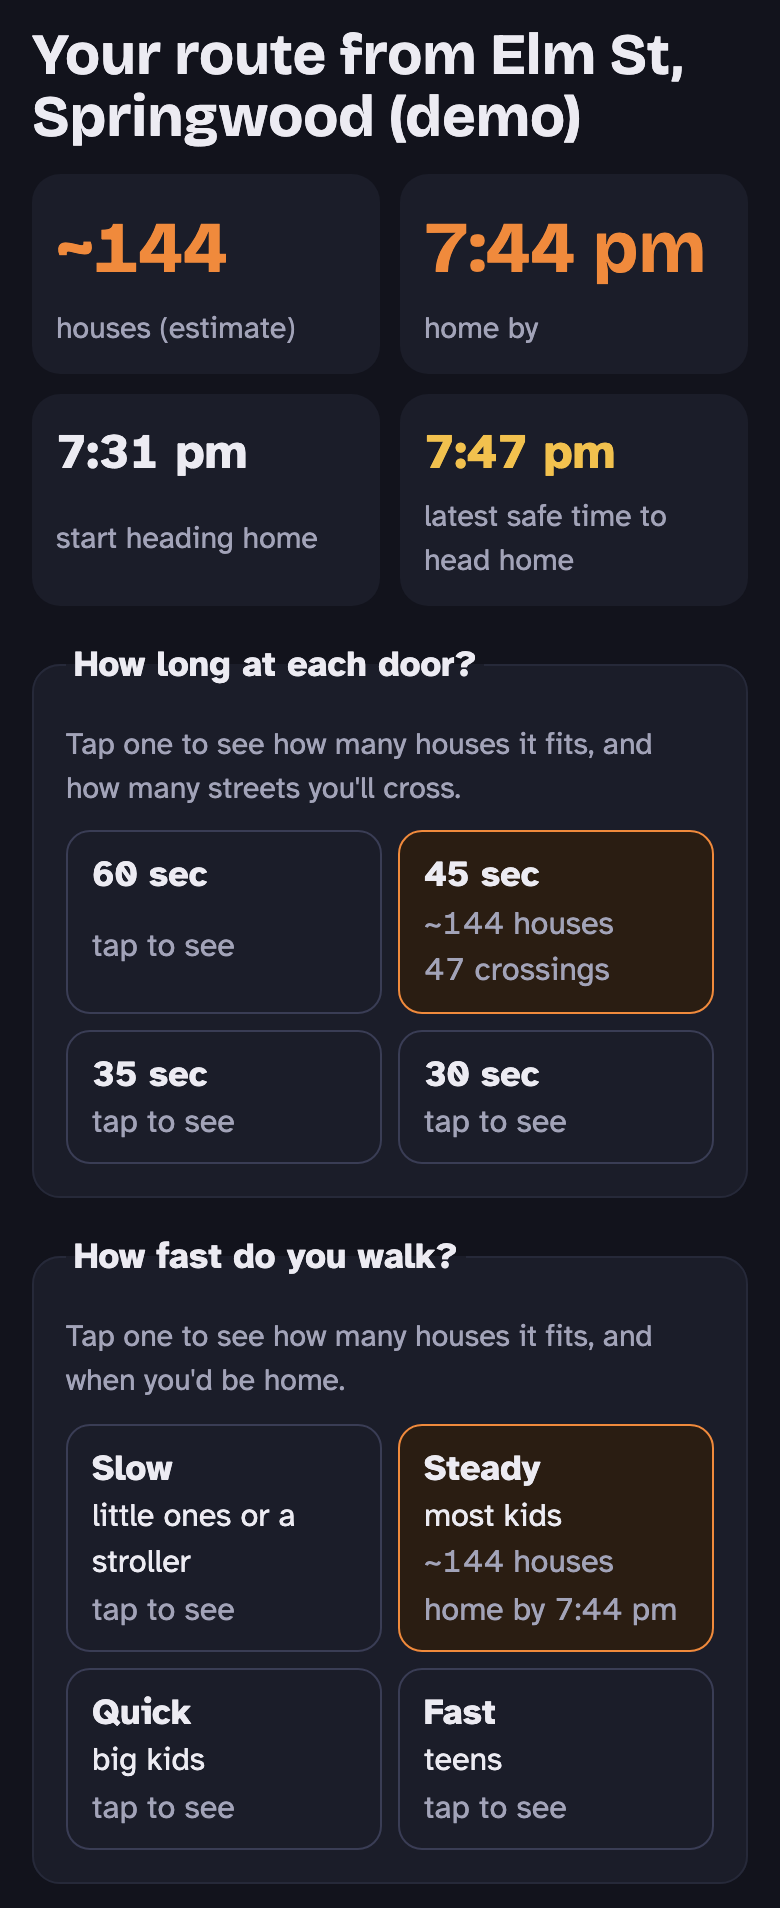
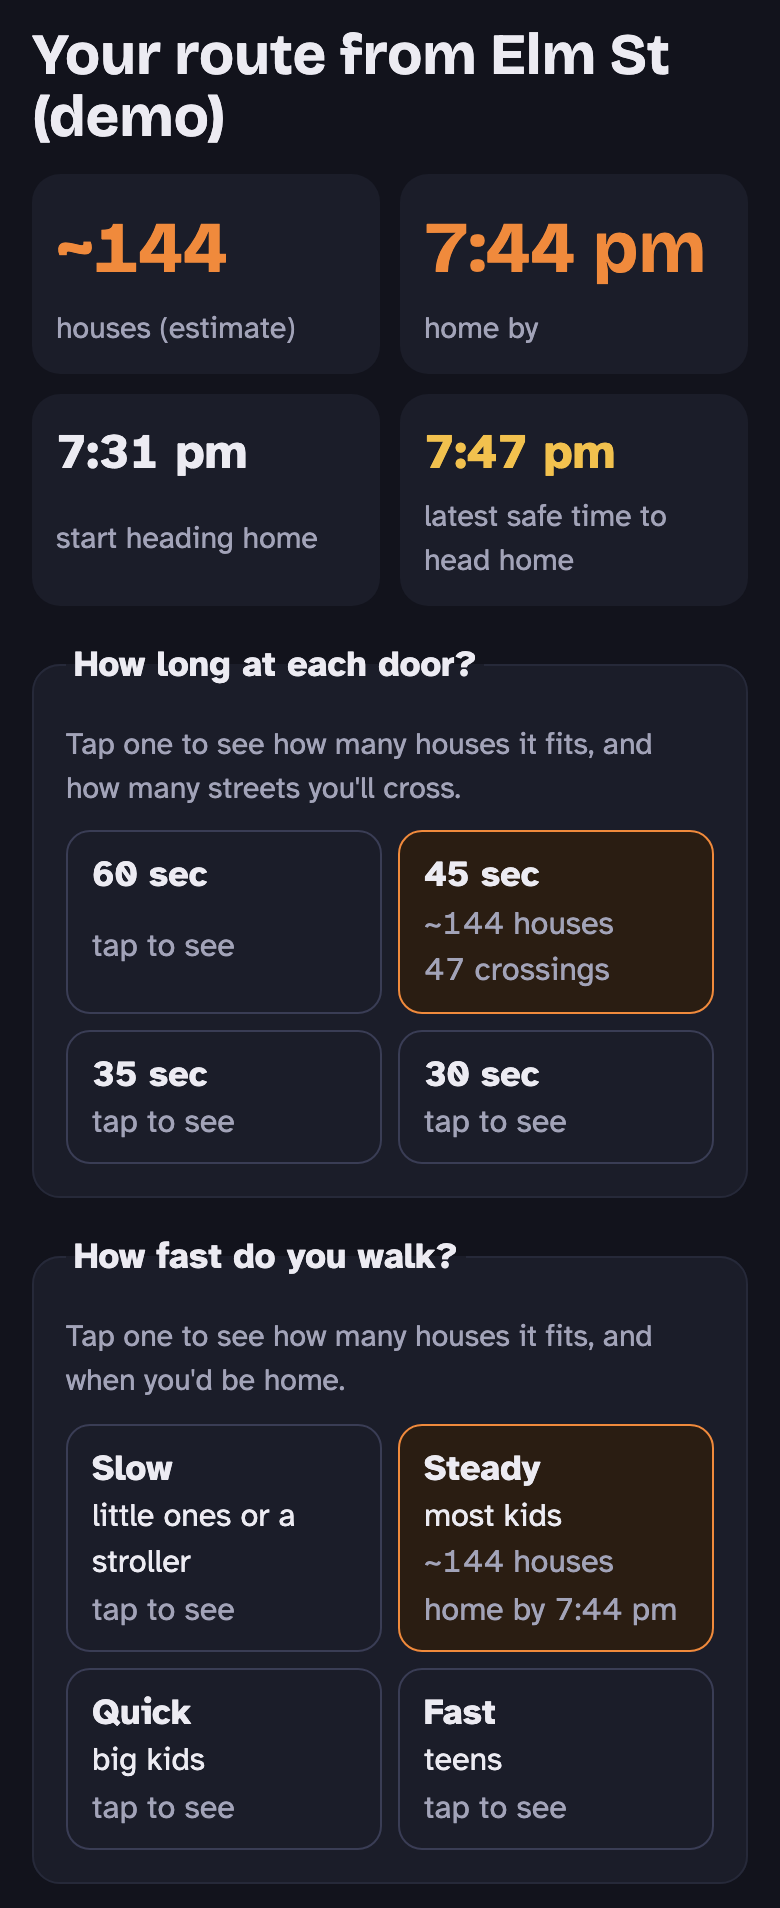
Route title shows the street only, never a town or neighborhood
The title could add a second part from the geocoder, an area name locals
don't use. People know what town they're in, so it's gone:

- "Your route from Elm St": the street only, still shortened (Street -> St,
  Avenue -> Ave). No street from the geocoder: just "Your route". The demo
  reads "Your route from Elm St (demo)".
- The geocoders no longer keep a town at all. The town was only ever used
  for the title, so less is stored: a found address is now just the point
  and the street.
- Older data still loads with street-only titles: cached addresses that kept
  a town (or an old "street, area" label), and planned routes and Night Mode
  plans whose saved title named a town. They're trimmed to the street when
  read.

Tests use made-up Springwood-style geocoder answers, including ones with no
street name. Retook 2-results-door-and-pace.png and 4-night-mode.png in demo
mode (390 px at 2x, every request leaving localhost blocked; none were made).

Changed region(s): [[0.0308, 0.0309, 0.7385, 0.0928]]

diff --git a/src/screens/saved.test.ts b/src/screens/saved.test.ts
@@ -44,8 +44,18 @@ describe('settings saved by an older version', () => {
       [`haulween.geo.${key}`]: { lat: 41.8, lng: -82.1, label: 'Elm Street, Lakeview', source: 'Nominatim' },
     }));
     const place = await geo.search(PLACEHOLDER_ADDRESS);
-    expect(place).toEqual({ lat: 41.8, lng: -82.1, road: 'Elm Street', town: '', source: 'Nominatim' });
-    // The old label's town might be a small local area name ("Lakeview"), so it isn't used.
+    expect(place).toEqual({ lat: 41.8, lng: -82.1, road: 'Elm Street', source: 'Nominatim' });
+    // The old label's area name ("Lakeview") isn't kept or shown.
+    expect(routeTitle(place!)).toBe('Your route from Elm St');
+  });
+
+  it('a cached address from the version that kept a town loads with the street only', async () => {
+    const key = PLACEHOLDER_ADDRESS.toLowerCase();
+    const geo = new FallbackGeocoder([offline], storage({
+      [`haulween.geo.${key}`]: { lat: 41.8, lng: -82.1, road: 'Elm Street', town: 'Springwood', source: 'Photon' },
+    }));
+    const place = await geo.search(PLACEHOLDER_ADDRESS);
+    expect(place).toEqual({ lat: 41.8, lng: -82.1, road: 'Elm Street', source: 'Photon' });
     expect(routeTitle(place!)).toBe('Your route from Elm St');
     const out = makePlan(SPRINGWOOD, HOME, toForm(oldForm));
     expect(out.result.ok).toBe(true);
@@ -88,10 +98,10 @@ describe('settings saved by an older version', () => {
     const key = PLACEHOLDER_ADDRESS.toLowerCase();
     const fresh: Geocoder = {
       name: 'Nominatim', credit: '',
-      search: async () => ({ lat: 41.8, lng: -82.1, road: 'Elm Street', town: 'Springwood', source: 'Nominatim' }),
+      search: async () => ({ lat: 41.8, lng: -82.1, road: 'Maple Avenue', source: 'Nominatim' }),
     };
     const geo = new FallbackGeocoder([fresh], storage({ [`haulween.geo.${key}`]: { label: 'Elm Street' } }));
-    expect(await geo.search(PLACEHOLDER_ADDRESS)).toMatchObject({ town: 'Springwood' });
+    expect(await geo.search(PLACEHOLDER_ADDRESS)).toMatchObject({ road: 'Maple Avenue' });
   });
 });
 
@@ -115,6 +125,11 @@ describe('a Night Mode plan saved by an older version', () => {
     expect(res.plan.schedule.pace).toEqual({ mph: 1.5, doorSeconds: 60 });
     const steady = toNightPlan(JSON.parse(JSON.stringify({ ...night, options: { startTime: '17:00', endTime: '21:00', youngestAge: 13 } })))!;
     expect(steady.options.paceMph).toBe(2.0);
+  });
+
+  it('an older title with a town or neighborhood shows the street only', () => {
+    const p = toNightPlan(JSON.parse(JSON.stringify({ ...night, title: 'Your route from Elm St, Lakeview' })))!;
+    expect(p.title).toBe('Your route from Elm St');
   });
 
   it('fills in missing settings, and a replan from it still passes the route check', () => {

diff --git a/src/data/geocoder.ts b/src/data/geocoder.ts
@@ -43,28 +43,28 @@ async function getJson<T>(fetchFn: Fetch, url: string, init: RequestInit, ms: nu
 export type Place = {
   lat: number;
   lng: number;
-  /** The street, as the geocoder spells it ("Elm Street"); empty if it gave none. */
-  road: string;
   /**
-   * The town or city, never a small local area name: a neighborhood, suburb or hamlet name
-   * ("Lakeview") means little to anyone else. Empty if there's none.
+   * The street, as the geocoder spells it ("Elm Street"); empty if it gave none. The only part of
+   * the answer kept besides the point: the route title shows the street alone, never a town or
+   * neighborhood (people know what town they're in, and geocoders' area names often aren't the
+   * ones locals use).
    */
-  town: string;
+  road: string;
   /** Who found it, for the credit line. */
   source: 'Nominatim' | 'Photon';
 };
 
 /**
- * A place read back from the cache, which an older version may have written. Versions before
- * road and town kept one `label` ("Elm Street, Lakeview"); its street is kept, but not its town,
- * which could be a small local area name. null if there's no usable point.
+ * A place read back from the cache, which an older version may have written: with a `town`
+ * (dropped now), or with one `label` like "Elm Street, Lakeview" (only its street is kept).
+ * null if there's no usable point.
  */
 export function toPlace(saved: unknown): Place | null {
-  const p = withDefaults(saved, { lat: NaN, lng: NaN, road: '', town: '', source: 'Nominatim' as Place['source'], label: '' });
+  const p = withDefaults(saved, { lat: NaN, lng: NaN, road: '', source: 'Nominatim' as Place['source'], label: '' });
   if (!isNum(p.lat) || !isNum(p.lng)) return null;
   const parts = p.label.split(',').map((s) => s.trim());
   const road = p.road || (parts.length >= 2 ? parts[0] : '');
-  return { lat: p.lat, lng: p.lng, road, town: p.town, source: p.source === 'Photon' ? 'Photon' : 'Nominatim' };
+  return { lat: p.lat, lng: p.lng, road, source: p.source === 'Photon' ? 'Photon' : 'Nominatim' };
 }
 
 export interface Geocoder {
@@ -112,7 +112,6 @@ export class NominatimGeocoder implements Geocoder {
       lat: Number(rows[0].lat),
       lng: Number(rows[0].lon),
       road: a.road ?? '',
-      town: a.city ?? a.town ?? a.village ?? a.municipality ?? '',
       source: this.name,
     };
   }
@@ -136,7 +135,6 @@ export class PhotonGeocoder implements Geocoder {
       lat: f.geometry.coordinates[1],
       lng: f.geometry.coordinates[0],
       road: p.street ?? p.name ?? '',
-      town: p.city ?? p.town ?? p.village ?? '',
       source: this.name,
     };
   }

diff --git a/src/data/data.test.ts b/src/data/data.test.ts
@@ -100,14 +100,21 @@ describe('geocoder', () => {
 
   it('reads a Nominatim answer', async () => {
     const g = new NominatimGeocoder(() => json(nominatimRow), noWait);
-    expect(await g.search(PLACEHOLDER_ADDRESS)).toEqual({ lat: 41.8, lng: -82.1, road: 'Elm Street', town: 'Springwood', source: 'Nominatim' });
+    expect(await g.search(PLACEHOLDER_ADDRESS)).toEqual({ lat: 41.8, lng: -82.1, road: 'Elm Street', source: 'Nominatim' });
   });
 
-  it('takes the town, not a small local area name', async () => {
-    const row = [{ lat: '41.8', lon: '-82.1', address: { road: 'Elm Street', suburb: 'Lakeview', hamlet: 'Lakeview', town: 'Springwood' } }];
-    expect(await new NominatimGeocoder(() => json(row), noWait).search(PLACEHOLDER_ADDRESS)).toMatchObject({ town: 'Springwood' });
-    const noTown = [{ lat: '41.8', lon: '-82.1', address: { road: 'Elm Street', neighbourhood: 'Lakeview', suburb: 'Lakeview' } }];
-    expect(await new NominatimGeocoder(() => json(noTown), noWait).search(PLACEHOLDER_ADDRESS)).toMatchObject({ town: '' });
+  it('keeps only the street and the point: no town, suburb or neighborhood', async () => {
+    const row = [{ lat: '41.8', lon: '-82.1', address: { road: 'Elm Street', suburb: 'Lakeview', neighbourhood: 'Lakeview', town: 'Springwood', city: 'Springwood' } }];
+    const place = await new NominatimGeocoder(() => json(row), noWait).search(PLACEHOLDER_ADDRESS);
+    expect(place).toEqual({ lat: 41.8, lng: -82.1, road: 'Elm Street', source: 'Nominatim' });
+    expect(JSON.stringify(place)).not.toMatch(/Springwood|Lakeview/);
+  });
+
+  it('copes with an answer that has no street name', async () => {
+    const row = [{ lat: '41.8', lon: '-82.1', address: { town: 'Springwood' } }];
+    expect(await new NominatimGeocoder(() => json(row), noWait).search(PLACEHOLDER_ADDRESS)).toEqual({ lat: 41.8, lng: -82.1, road: '', source: 'Nominatim' });
+    const photon = { features: [{ geometry: { coordinates: [-82.1, 41.8] }, properties: { city: 'Springwood' } }] };
+    expect(await new PhotonGeocoder(() => json(photon)).search(PLACEHOLDER_ADDRESS)).toEqual({ lat: 41.8, lng: -82.1, road: '', source: 'Photon' });
   });
 
   it('switches to Photon when Nominatim pushes back', async () => {

diff --git a/src/screens/planning.test.ts b/src/screens/planning.test.ts
@@ -1,7 +1,7 @@
 import { describe, expect, it } from 'vitest';
 import { HOME, SPRINGWOOD } from '../route/__fixtures__/springwood';
 import {
-  DEFAULT_FORM, ampm, choiceKey, estimatesFor, leftOut, makePlan, matchAvoid, nextHalloween, routeTitle,
+  DEFAULT_FORM, ampm, choiceKey, estimatesFor, leftOut, makePlan, matchAvoid, nextHalloween, routeTitle, streetOnlyTitle,
 } from './planning';
 import { planRoute } from '../route/plan';
 import { PACE_CHOICES, PLACEHOLDER_ADDRESS } from '../config';
@@ -101,13 +101,24 @@ describe('makePlan', () => {
 });
 
 describe('the results title', () => {
-  it('uses the street and the town, short street names', () => {
-    expect(routeTitle({ road: 'Elm Street', town: 'Springwood' })).toBe('Your route from Elm St, Springwood');
+  it('shows the street only, in its short form', () => {
+    expect(routeTitle({ road: 'Elm Street' })).toBe('Your route from Elm St');
+    expect(routeTitle({ road: 'Maple Avenue' })).toBe('Your route from Maple Ave');
   });
 
-  it('falls back to the street alone when there is no town', () => {
-    expect(routeTitle({ road: 'Walnut Street', town: '' })).toBe('Your route from Walnut St');
-    expect(routeTitle({ road: '', town: '' })).toBe('Your route from home');
+  it('says just "Your route" when the geocoder gave no street', () => {
+    expect(routeTitle({ road: '' })).toBe('Your route');
+    expect(routeTitle({ road: '   ' })).toBe('Your route');
+  });
+
+  it('turns an older title with a town or neighborhood into the street only', () => {
+    expect(streetOnlyTitle('Your route from Elm St, Springwood')).toBe('Your route from Elm St');
+    expect(streetOnlyTitle('Your route from Maple Avenue, Lakeview')).toBe('Your route from Maple Ave');
+    expect(streetOnlyTitle('Your route from Elm St, Springwood (demo)')).toBe('Your route from Elm St (demo)');
+    expect(streetOnlyTitle('Your route from Elm St')).toBe('Your route from Elm St');
+    expect(streetOnlyTitle('Your route from home')).toBe('Your route');
+    expect(streetOnlyTitle('Your route')).toBe('Your route');
+    expect(streetOnlyTitle('something else entirely')).toBe('Your route');
   });
 });
 

diff --git a/src/screens/planStore.test.ts b/src/screens/planStore.test.ts
@@ -25,7 +25,7 @@ function memoryStorage(limit = Infinity): Storage {
 }
 
 const form = { ...DEFAULT_FORM, address: PLACEHOLDER_ADDRESS, date: '2026-10-31', start: '17:00', end: '21:00' };
-const planned: Planned = { v: 1, form, home: HOME, title: 'Your route from Elm St, Springwood', tonight: null };
+const planned: Planned = { v: 1, form, home: HOME, title: 'Your route from Elm St', tonight: null };
 const fetchSpy = vi.fn(() => { throw new Error('no network calls in these tests'); });
 
 beforeEach(() => {
@@ -51,6 +51,18 @@ describe('a planned route, kept on this phone', () => {
     expect(again.result.plan.segments).toEqual(first.result.plan.segments);
     expect(again.result.plan.schedule.rows).toEqual(first.result.plan.schedule.rows);
     expect(fetchSpy).not.toHaveBeenCalled();
+  });
+
+  it('a route kept by an older version, with a town in its title, shows the street only', () => {
+    savePlanned({ ...planned, title: 'Your route from Elm St, Springwood' }, SPRINGWOOD);
+    expect(loadPlanned()!.planned.title).toBe('Your route from Elm St');
+  });
+
+  it('keeps no town or neighborhood with the route', () => {
+    savePlanned(planned, SPRINGWOOD);
+    const kept = JSON.parse(localStorage.getItem('haulween.planned')!);
+    expect(JSON.stringify(kept)).not.toMatch(/"town"/);
+    expect(kept.title).toBe('Your route from Elm St');
   });
 
   it('planning again for the same address reuses the kept streets', () => {

diff --git a/src/screens/planning.ts b/src/screens/planning.ts
@@ -166,10 +166,20 @@ export function makePlan(data: OsmData, home: Pt, form: PlanForm): PlanOutcome {
   return { ...main, ...estimatesFor(form, (k) => plans.get(k)) };
 }
 
-/** "Your route from Elm St, Springwood", or "Your route from Elm St" when there's no town. */
-export function routeTitle(place: { road: string; town: string }): string {
-  const where = [shortName(place.road.trim()), place.town.trim()].filter(Boolean).join(', ');
-  return `Your route from ${where || 'home'}`;
+/** "Your route from Elm St": the street only, never a town or neighborhood. "Your route" with no street. */
+export function routeTitle(place: { road: string }): string {
+  const street = shortName(place.road.trim());
+  return street ? `Your route from ${street}` : 'Your route';
+}
+
+/**
+ * A title saved by an older version, which could add a town or neighborhood after a comma
+ * ("Your route from Elm St, Lakeview"): the street only, keeping a "(demo)" mark.
+ */
+export function streetOnlyTitle(saved: string): string {
+  const m = /^Your route from ([^,(]*[^,(\s])(?:\s*,[^(]*)?(\s*\(demo\))?\s*$/.exec(saved.trim());
+  if (!m || m[1].trim() === 'home') return `Your route${m?.[2] ?? ''}`;
+  return `Your route from ${shortName(m[1].trim())}${m[2] ? ' (demo)' : ''}`;
 }
 
 export type LeftOut = { text: string; houses: number };

diff --git a/src/screens/nightStore.ts b/src/screens/nightStore.ts
@@ -12,7 +12,7 @@ import type { NamedLine, OsmData, Pt } from '../route/types';
 import { isNum, withDefaults } from '../stored';
 import { DEFAULT_DOOR_SECONDS, DEFAULT_PACE, paceChoice } from '../config';
 import { loadStreets, saveStreets } from './planStore';
-import type { PlanForm } from './planning';
+import { streetOnlyTitle, type PlanForm } from './planning';
 
 const PLAN_KEY = 'haulween.night.plan';
 const PROGRESS_KEY = 'haulween.night.progress';
@@ -89,7 +89,8 @@ export function toNightPlan(saved: unknown): NightPlan | null {
     exclude: [] as string[],
   });
   const lines = withDefaults(p.lines, { streetLines: [] as NamedLine[], busyRoads: [] as NamedLine[], areas: [] as NamedLine[] });
-  return { ...p, v: 1, schedule, options, lines };
+  // An older version's title could name a town or neighborhood too: keep just the street.
+  return { ...p, v: 1, title: streetOnlyTitle(p.title), schedule, options, lines };
 }
 
 /** Saved progress, from any version of the app; null if it doesn't fit this plan. */

diff --git a/src/screens/planStore.ts b/src/screens/planStore.ts
@@ -10,7 +10,7 @@
 import type { Tonight } from '../data/weather';
 import type { OsmData, Pt } from '../route/types';
 import { isNum, withDefaults } from '../stored';
-import { toForm, type PlanForm } from './planning';
+import { streetOnlyTitle, toForm, type PlanForm } from './planning';
 
 const PLANNED_KEY = 'haulween.planned';
 const STREETS_KEY = 'haulween.streets';
@@ -90,7 +90,8 @@ export function toPlanned(saved: unknown): Planned | null {
   if (!form.address.trim()) return null;
   const t = field(saved, 'tonight');
   const tonight = typeof t === 'object' && t !== null && Array.isArray(field(t, 'hours')) ? (t as Tonight) : null;
-  return { v: 1, form, home, title, tonight };
+  // An older version's title could name a town or neighborhood too: keep just the street.
+  return { v: 1, form, home, title: streetOnlyTitle(title), tonight };
 }
 
 /** Keep a route just planned, and the streets it came from. False if the phone has no room. */

diff --git a/src/demo.ts b/src/demo.ts
@@ -9,7 +9,7 @@ import { nextHalloween, type PlanForm } from './screens/planning';
 export const DEMO = {
   home: HOME,
   data: SPRINGWOOD,
-  title: 'Your route from Elm St, Springwood (demo)',
+  title: 'Your route from Elm St (demo)',
   form: {
     address: PLACEHOLDER_ADDRESS,
     date: nextHalloween(),
